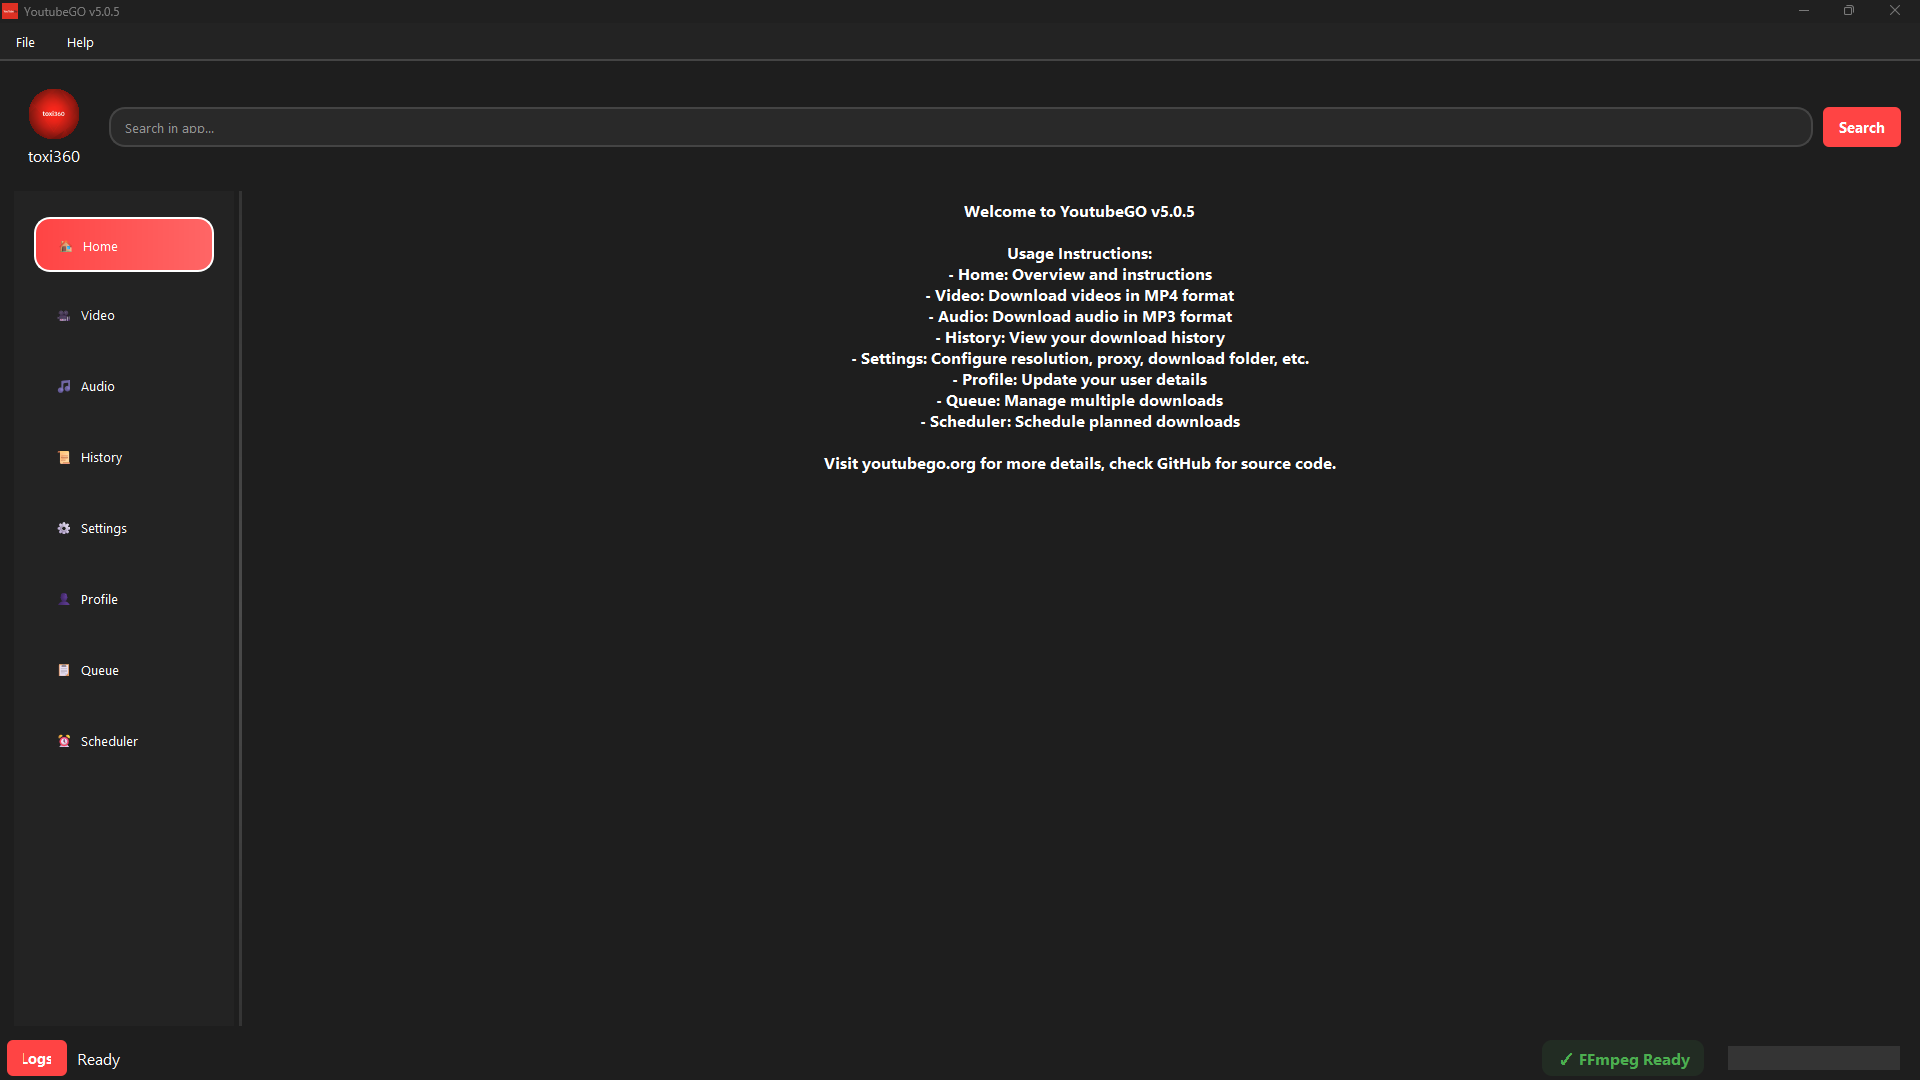
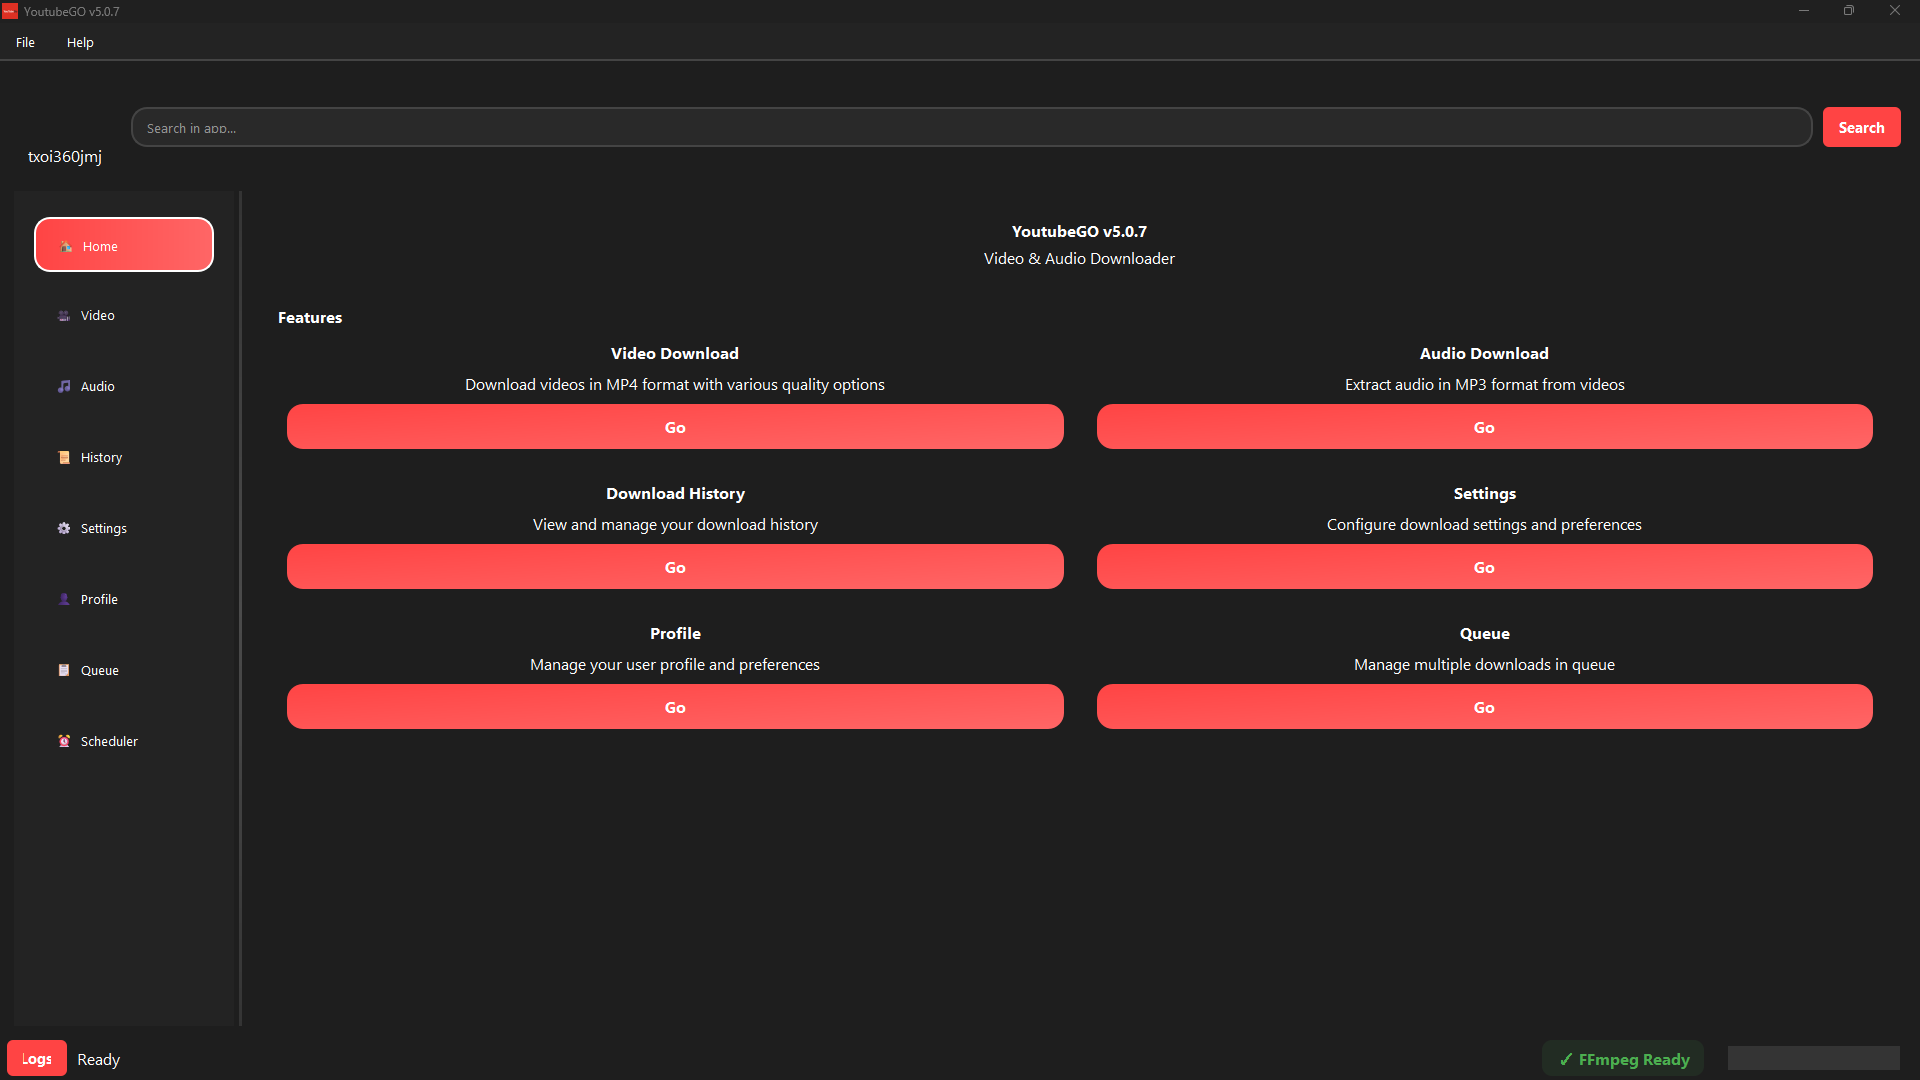
feat(ui):Created a modern and user-friendly interface - Added feature cards and fixed page navigation

diff --git a/ui/pages/home_page.py b/ui/pages/home_page.py
@@ -1,7 +1,36 @@
-from PySide6.QtWidgets import QWidget, QVBoxLayout, QLabel
+from PySide6.QtWidgets import QWidget, QVBoxLayout, QHBoxLayout, QLabel, QFrame, QGridLayout, QPushButton
 from PySide6.QtCore import Qt
 from PySide6.QtGui import QFont
 from core.version import get_version
+
+class FeatureCard(QFrame):
+    def __init__(self, title, description, page_index, parent=None):
+        super().__init__(parent)
+        self.setObjectName("featureCard")
+        self.page_index = page_index
+        
+        layout = QVBoxLayout(self)
+        layout.setSpacing(10)
+        
+        title_label = QLabel(title)
+        title_label.setFont(QFont("Arial", 12, QFont.Bold))
+        title_label.setAlignment(Qt.AlignCenter)
+        layout.addWidget(title_label)
+        
+        desc_label = QLabel(description)
+        desc_label.setWordWrap(True)
+        desc_label.setAlignment(Qt.AlignCenter)
+        layout.addWidget(desc_label)
+        
+        button = QPushButton("Go")
+        button.setCursor(Qt.PointingHandCursor)
+        button.clicked.connect(self.on_button_clicked)
+        layout.addWidget(button)
+
+    def on_button_clicked(self):
+        main_window = self.window()
+        if main_window:
+            main_window.side_menu_changed(self.page_index)
 
 class HomePage(QWidget):
     def __init__(self, parent=None):
@@ -10,30 +39,51 @@ class HomePage(QWidget):
         self.init_ui()
 
     def init_ui(self):
-        layout = QVBoxLayout(self)
-        
-        
-        welcome_text = f"""Welcome to YoutubeGO {get_version()}
+        main_layout = QVBoxLayout(self)
+        main_layout.setSpacing(20)
+        main_layout.setContentsMargins(20, 20, 20, 20)
 
-Usage Instructions:
-- Home: Overview and instructions
-- Video: Download videos in MP4 format
-- Audio: Download audio in MP3 format
-- History: View your download history
-- Settings: Configure resolution, proxy, download folder, etc.
-- Profile: Update your user details
-- Queue: Manage multiple downloads
-- Scheduler: Schedule planned downloads
+        header_frame = QFrame()
+        header_frame.setObjectName("headerFrame")
+        header_layout = QVBoxLayout(header_frame)
 
-Visit youtubego.org for more details, check GitHub for source code."""
+        welcome_label = QLabel(f"YoutubeGO {get_version()}")
+        welcome_label.setFont(QFont("Arial", 24, QFont.Bold))
+        welcome_label.setAlignment(Qt.AlignCenter)
+        header_layout.addWidget(welcome_label)
 
-        lbl = QLabel(welcome_text)
-        lbl.setFont(QFont("Arial", 16, QFont.Bold))
-        lbl.setAlignment(Qt.AlignCenter)
-        lbl.setOpenExternalLinks(True)
-        layout.addWidget(lbl)
-        
-    
-       
-        
-        layout.addStretch() 
+        subtitle_label = QLabel("Video & Audio Downloader")
+        subtitle_label.setFont(QFont("Arial", 14))
+        subtitle_label.setAlignment(Qt.AlignCenter)
+        header_layout.addWidget(subtitle_label)
+
+        main_layout.addWidget(header_frame)
+
+        features_frame = QFrame()
+        features_frame.setObjectName("featuresFrame")
+        features_layout = QVBoxLayout(features_frame)
+
+        features_title = QLabel("Features")
+        features_title.setFont(QFont("Arial", 16, QFont.Bold))
+        features_layout.addWidget(features_title)
+
+        grid_layout = QGridLayout()
+        grid_layout.setSpacing(15)
+
+        features = [
+            ("Video Download", "Download videos in MP4 format with various quality options", 1),
+            ("Audio Download", "Extract audio in MP3 format from videos", 2),
+            ("Download History", "View and manage your download history", 3),
+            ("Settings", "Configure download settings and preferences", 4),
+            ("Profile", "Manage your user profile and preferences", 5),
+            ("Queue", "Manage multiple downloads in queue", 6)
+        ]
+
+        for i, (title, desc, page_index) in enumerate(features):
+            card = FeatureCard(title, desc, page_index, self)
+            grid_layout.addWidget(card, i // 2, i % 2)
+
+        features_layout.addLayout(grid_layout)
+        main_layout.addWidget(features_frame)
+
+        main_layout.addStretch() 

diff --git a/core/version.py b/core/version.py
@@ -1,4 +1,4 @@
-VERSION = "v5.0.6"
+VERSION = "v5.0.7"
 VERSION_SHORT = "v5.0"
 
 def get_version(short=False):
